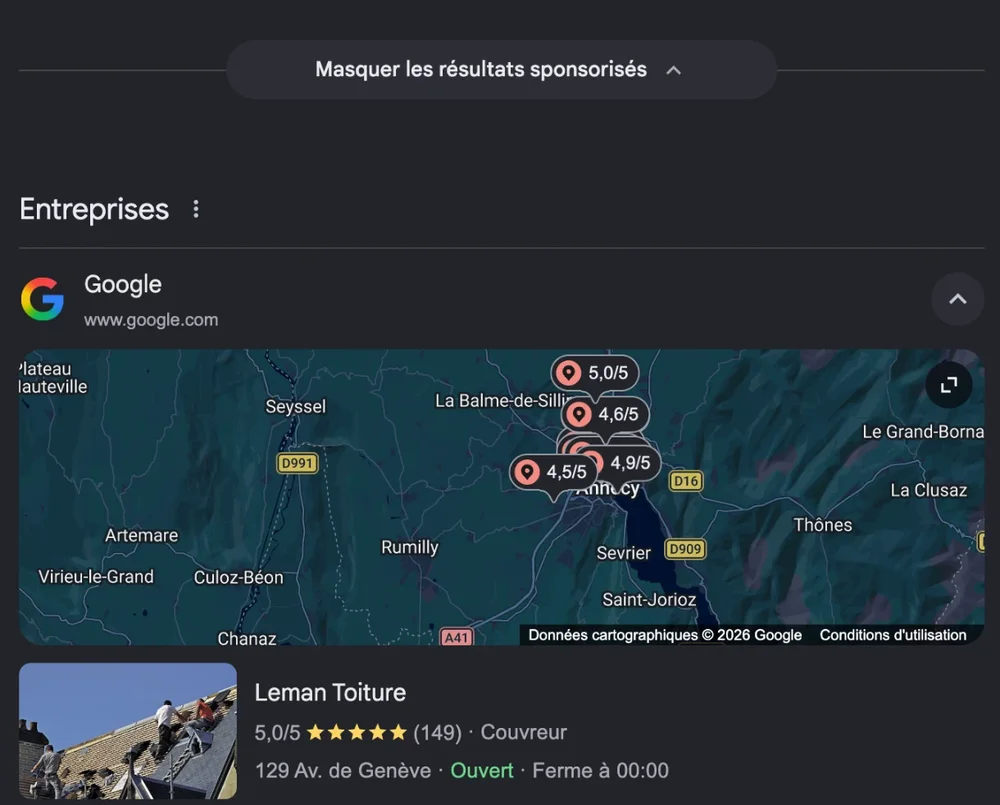
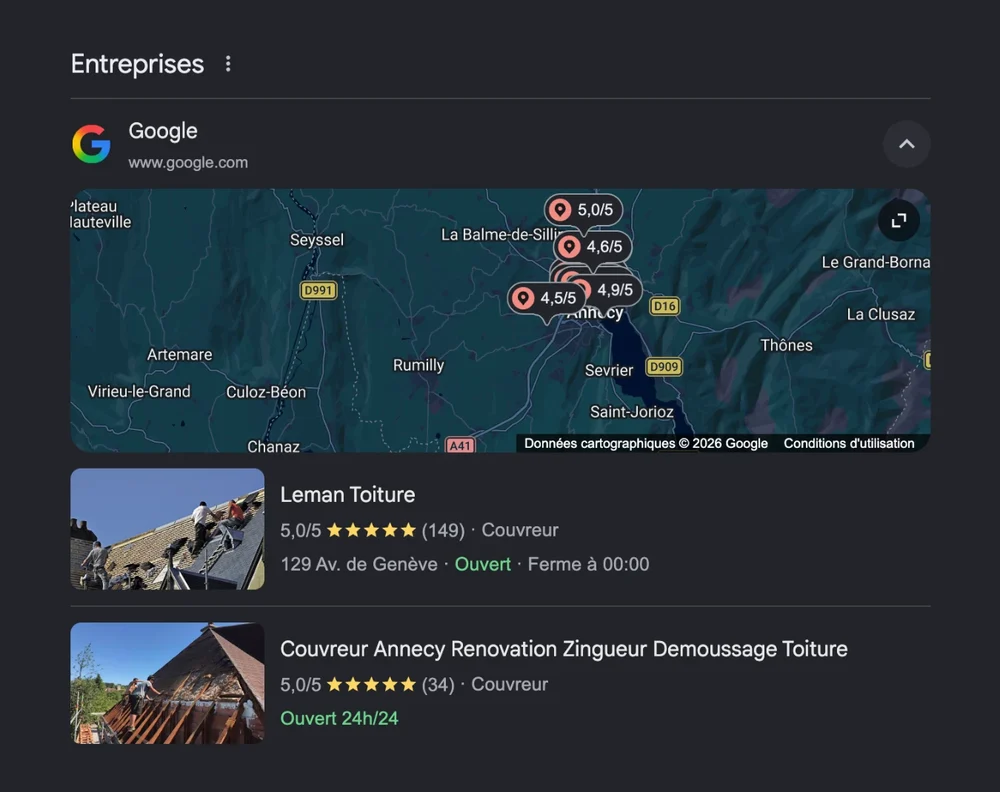
v2 services : captures Google recadrées avec marge, cadre orange retiré, étiquette au-dessus

diff --git a/v2/index.html b/v2/index.html
@@ -218,8 +218,8 @@
           </div>
           <div class="svc-media">
             <figure class="svc-shot">
-              <img src="/v2/assets/services/serp-lsa.webp" alt="Vraie recherche Google « rénovation toiture annecy » : le bloc LSA tout en haut" width="1000" height="593" loading="lazy" decoding="async">
-              <span class="svc-spot" style="--l:2.3%;--t:2.6%;--w:94.9%;--h:82.2%" aria-hidden="true"><span class="svc-spot-tag">Emplacement n°1 · le LSA</span></span>
+              <figcaption class="svc-shot-tag">Emplacement n°1 · le LSA</figcaption>
+              <img src="/v2/assets/services/serp-lsa.webp" alt="Vraie recherche Google « rénovation toiture annecy » : le bloc LSA tout en haut" width="1000" height="552" loading="lazy" decoding="async">
             </figure>
             <div class="svc-rev svc-rev--real">
                 <div class="svc-rev-top"><span class="svc-rev-msg"><svg viewBox="0 0 24 24" aria-hidden="true"><path d="M4 5h16v11H8l-4 4z"/></svg>Message d'un client</span><span class="svc-rev-real">Vrai retour</span></div>
@@ -262,8 +262,8 @@
           <!-- visuel : page Google, zone « Annonces » allumée -->
           <div class="svc-media">
             <figure class="svc-shot">
-              <img src="/v2/assets/services/serp-ads.webp" alt="Vraie recherche Google : les annonces Google Ads sous le LSA" width="1000" height="717" loading="lazy" decoding="async">
-              <span class="svc-spot" style="--l:2.3%;--t:4.4%;--w:94.9%;--h:94.8%" aria-hidden="true"><span class="svc-spot-tag">Emplacement n°2 · Google Ads</span></span>
+              <figcaption class="svc-shot-tag">Emplacement n°2 · Google Ads</figcaption>
+              <img src="/v2/assets/services/serp-ads.webp" alt="Vraie recherche Google : les annonces Google Ads sous le LSA" width="1000" height="438" loading="lazy" decoding="async">
             </figure>
             <div class="svc-rev svc-rev--real">
                 <div class="svc-rev-top"><span class="svc-rev-msg"><svg viewBox="0 0 24 24" aria-hidden="true"><path d="M4 5h16v11H8l-4 4z"/></svg>Message d'un client</span><span class="svc-rev-real">Vrai retour</span></div>
@@ -306,8 +306,8 @@
           </div>
           <div class="svc-media">
             <figure class="svc-shot">
-              <img src="/v2/assets/services/serp-fiche.webp" alt="Vraie recherche Google : la carte et les fiches Google sous les annonces" width="1000" height="805" loading="lazy" decoding="async">
-              <span class="svc-spot" style="--l:0.5%;--t:22.9%;--w:99%;--h:76.3%" aria-hidden="true"><span class="svc-spot-tag">Emplacement n°3 · ta fiche</span></span>
+              <figcaption class="svc-shot-tag">Emplacement n°3 · ta fiche</figcaption>
+              <img src="/v2/assets/services/serp-fiche.webp" alt="Vraie recherche Google : la carte et les fiches Google sous les annonces" width="1000" height="792" loading="lazy" decoding="async">
             </figure>
             <div class="svc-rev svc-rev--real">
                 <div class="svc-rev-top"><span class="svc-rev-msg"><svg viewBox="0 0 24 24" aria-hidden="true"><path d="M4 5h16v11H8l-4 4z"/></svg>Message d'un client</span><span class="svc-rev-real">Vrai retour</span></div>

diff --git a/v2/sections/services.html b/v2/sections/services.html
@@ -45,8 +45,8 @@
           </div>
           <div class="svc-media">
             <figure class="svc-shot">
-              <img src="/v2/assets/services/serp-lsa.webp" alt="Vraie recherche Google « rénovation toiture annecy » : le bloc LSA tout en haut" width="1000" height="593" loading="lazy" decoding="async">
-              <span class="svc-spot" style="--l:2.3%;--t:2.6%;--w:94.9%;--h:82.2%" aria-hidden="true"><span class="svc-spot-tag">Emplacement n°1 · le LSA</span></span>
+              <figcaption class="svc-shot-tag">Emplacement n°1 · le LSA</figcaption>
+              <img src="/v2/assets/services/serp-lsa.webp" alt="Vraie recherche Google « rénovation toiture annecy » : le bloc LSA tout en haut" width="1000" height="552" loading="lazy" decoding="async">
             </figure>
             <div class="svc-rev svc-rev--real">
                 <div class="svc-rev-top"><span class="svc-rev-msg"><svg viewBox="0 0 24 24" aria-hidden="true"><path d="M4 5h16v11H8l-4 4z"/></svg>Message d'un client</span><span class="svc-rev-real">Vrai retour</span></div>
@@ -89,8 +89,8 @@
           <!-- visuel : page Google, zone « Annonces » allumée -->
           <div class="svc-media">
             <figure class="svc-shot">
-              <img src="/v2/assets/services/serp-ads.webp" alt="Vraie recherche Google : les annonces Google Ads sous le LSA" width="1000" height="717" loading="lazy" decoding="async">
-              <span class="svc-spot" style="--l:2.3%;--t:4.4%;--w:94.9%;--h:94.8%" aria-hidden="true"><span class="svc-spot-tag">Emplacement n°2 · Google Ads</span></span>
+              <figcaption class="svc-shot-tag">Emplacement n°2 · Google Ads</figcaption>
+              <img src="/v2/assets/services/serp-ads.webp" alt="Vraie recherche Google : les annonces Google Ads sous le LSA" width="1000" height="438" loading="lazy" decoding="async">
             </figure>
             <div class="svc-rev svc-rev--real">
                 <div class="svc-rev-top"><span class="svc-rev-msg"><svg viewBox="0 0 24 24" aria-hidden="true"><path d="M4 5h16v11H8l-4 4z"/></svg>Message d'un client</span><span class="svc-rev-real">Vrai retour</span></div>
@@ -133,8 +133,8 @@
           </div>
           <div class="svc-media">
             <figure class="svc-shot">
-              <img src="/v2/assets/services/serp-fiche.webp" alt="Vraie recherche Google : la carte et les fiches Google sous les annonces" width="1000" height="805" loading="lazy" decoding="async">
-              <span class="svc-spot" style="--l:0.5%;--t:22.9%;--w:99%;--h:76.3%" aria-hidden="true"><span class="svc-spot-tag">Emplacement n°3 · ta fiche</span></span>
+              <figcaption class="svc-shot-tag">Emplacement n°3 · ta fiche</figcaption>
+              <img src="/v2/assets/services/serp-fiche.webp" alt="Vraie recherche Google : la carte et les fiches Google sous les annonces" width="1000" height="792" loading="lazy" decoding="async">
             </figure>
             <div class="svc-rev svc-rev--real">
                 <div class="svc-rev-top"><span class="svc-rev-msg"><svg viewBox="0 0 24 24" aria-hidden="true"><path d="M4 5h16v11H8l-4 4z"/></svg>Message d'un client</span><span class="svc-rev-real">Vrai retour</span></div>

diff --git a/v2/css/services.css b/v2/css/services.css
@@ -572,3 +572,12 @@
 [data-theme="light"] .svc-below-p{color:#5a5047}
 [data-theme="light"] .svc-slot--off{color:#7a6f63;border-color:rgba(60,40,20,.2);background:rgba(60,40,20,.04)}
 @media (prefers-reduced-motion:reduce){.svc-spot{animation:none}}
+
+/* captures sans cadre orange : étiquette au-dessus, image aérée */
+.svc-shot{overflow:visible;box-shadow:none;display:flex;flex-direction:column;gap:10px}
+.svc-shot img{border-radius:12px;box-shadow:0 0 0 1px rgba(255,255,255,.12),0 18px 34px -16px rgba(60,20,0,.7)}
+.svc-shot-tag{align-self:flex-start;padding:6px 12px;border-radius:999px;background:#0a0a0a;color:#fff;
+  font:700 12px/1 var(--font-body);display:inline-flex;align-items:center;gap:7px}
+.svc-shot-tag::before{content:"";width:7px;height:7px;border-radius:50%;background:var(--orange);box-shadow:0 0 8px var(--orange)}
+[data-theme="light"] .svc-shot{box-shadow:none}
+[data-theme="light"] .svc-shot img{box-shadow:0 0 0 1px rgba(60,40,20,.12),0 18px 34px -18px rgba(90,50,10,.45)}
